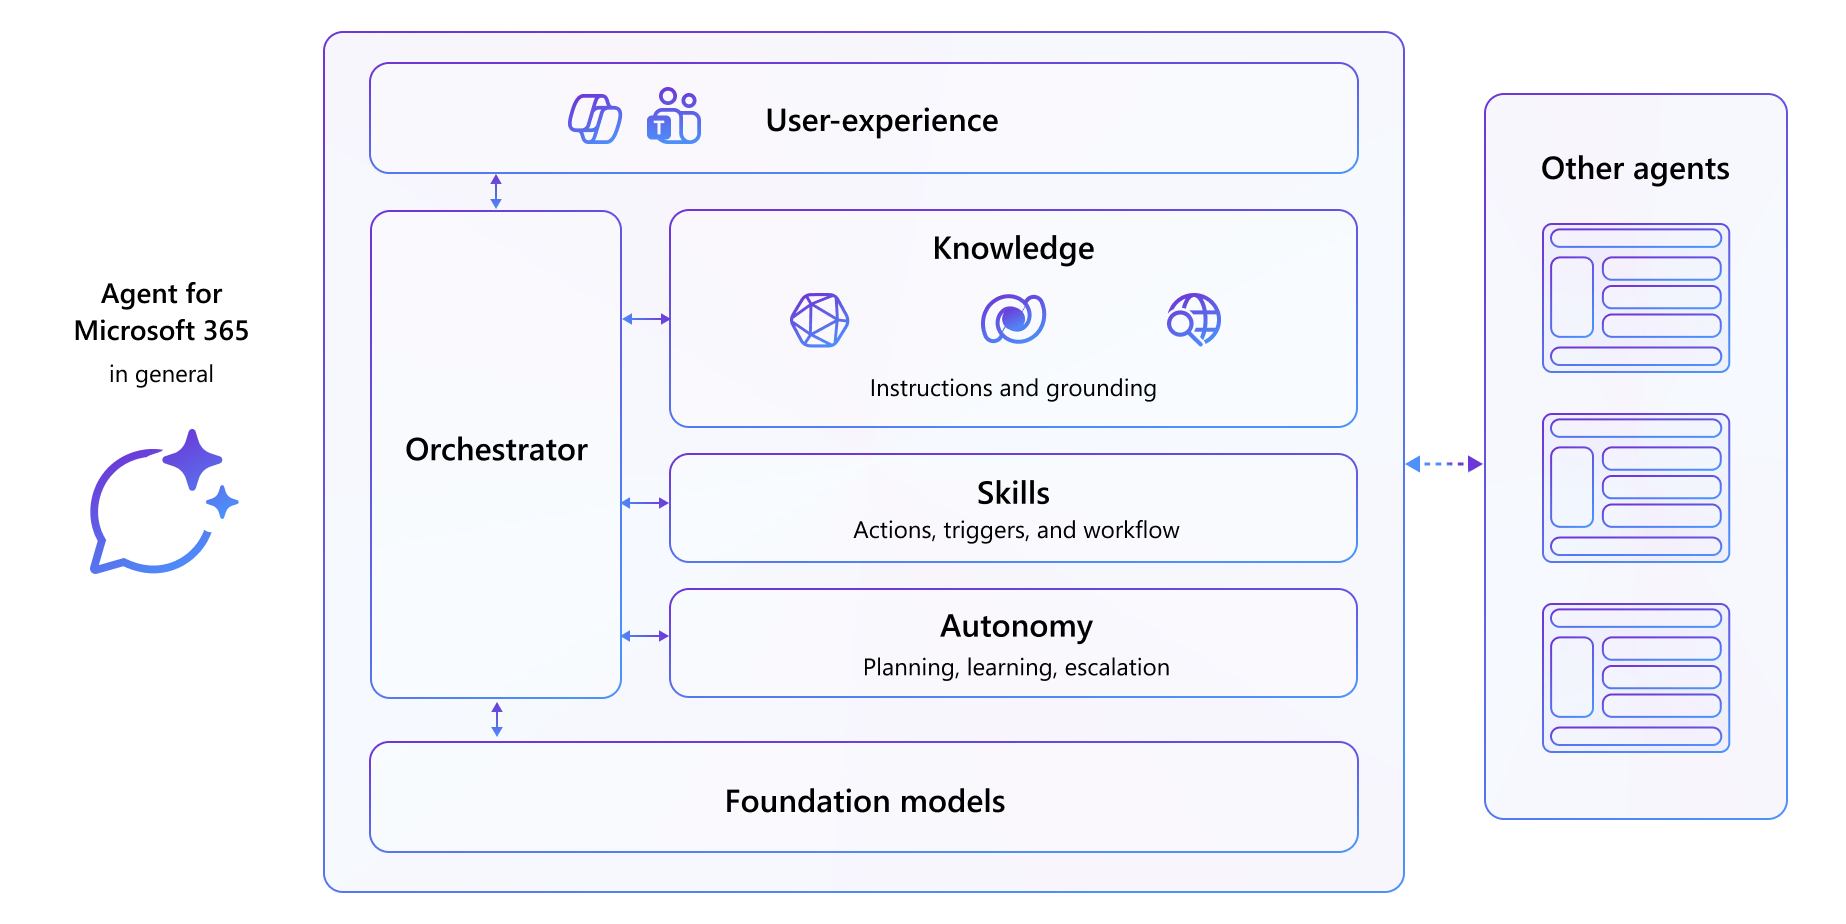
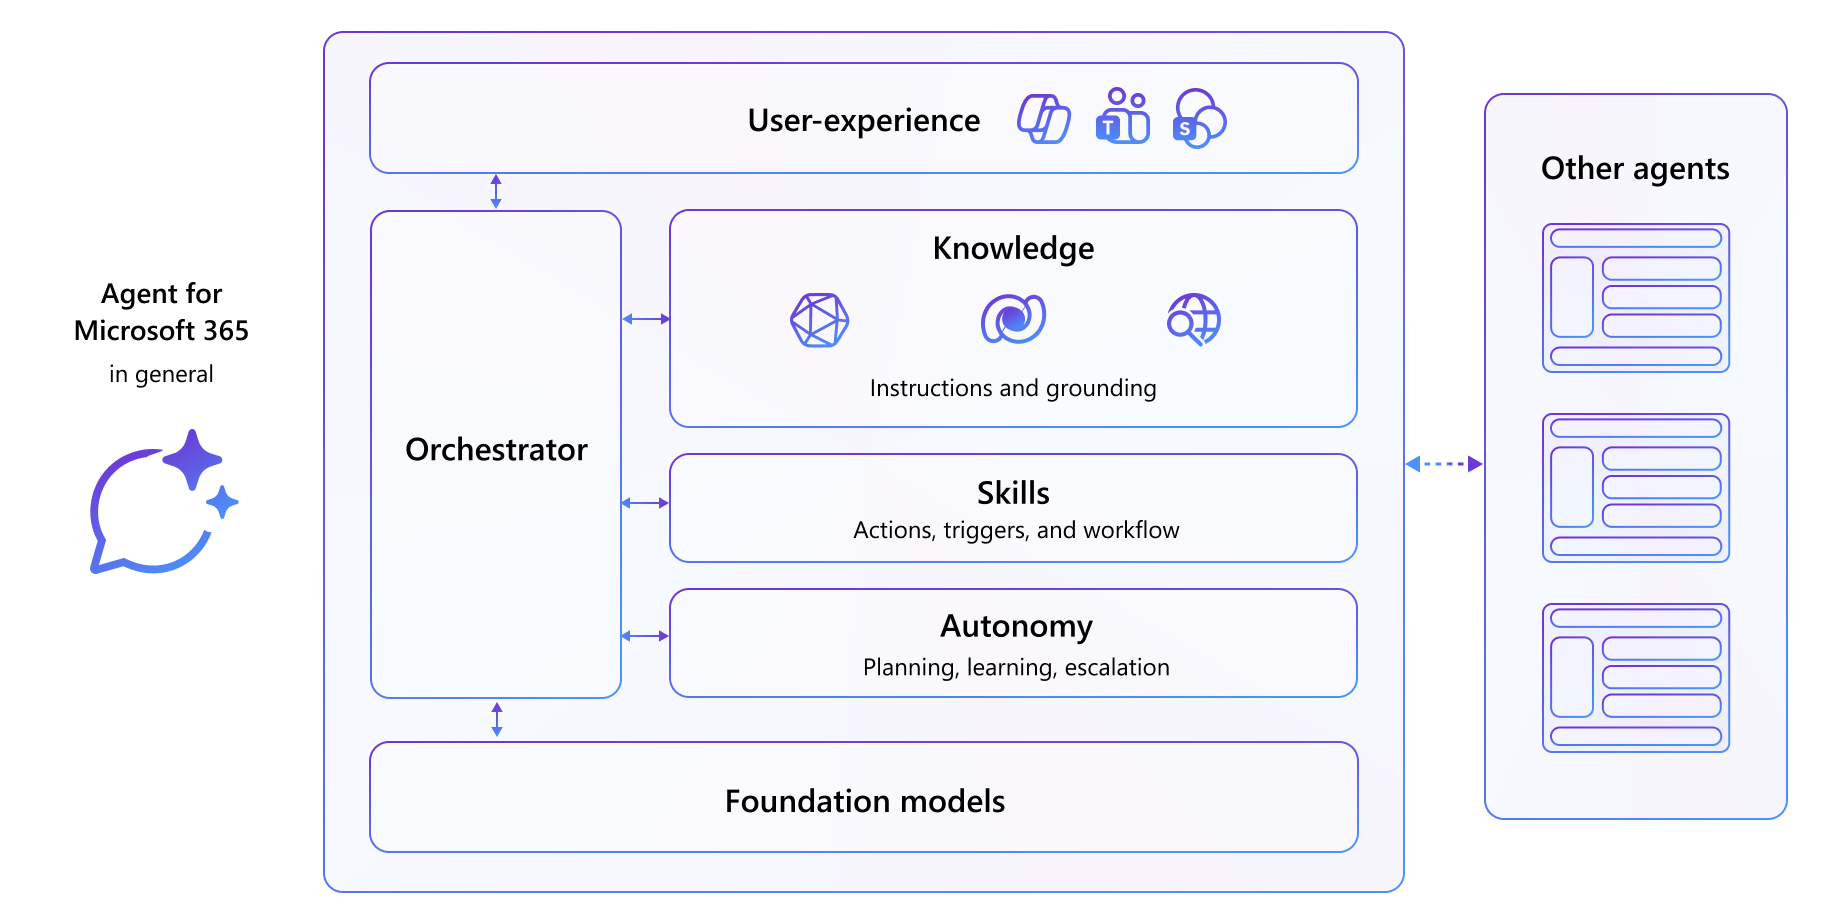
Refactoring of index

Changed region(s): [[0.3088, 0.0909, 0.6793, 0.1515]]

diff --git a/docs/index.md b/docs/index.md
@@ -2,29 +2,33 @@
 
 # Building Agents for Microsoft 365
 
-Agents for Microsoft 365 are conversational AI-powered assistants designed to help users automate tasks, answer questions, and streamline workflows across Microsoft 365 apps and services. Agents can be used in various scenarios, such as customer support, IT helpdesk, HR support, and more.
-
-![Agents for Microsoft 365 are conversational AI-powered assistants designed to help users automate tasks, answer questions, and streamline workflows across Microsoft 365 apps and services. Agents can be used in various scenarios, such as customer support, IT helpdesk, HR support, and more.](./assets/images/m365-agent-general.png)
-
-An agent for Microsoft 365 is typically made up of these components—foundational model,  an orchestrator, which is running that taps into that knowledge, skills, and autonomous processes that it has those capabilities to do, and it may or may not have a user interface. 
-
-You can either extend Microsoft 365 Copilot by using the same infrastructure, orchestrator, foundation model, and security controls as Microsoft 365 Copilot, which ensures a consistent and familiar user experience.
-
-Or you can pick your own foundation model, orchestrator, and responsible AI controls.
-
-## 🧪 Where should I start to build agents?
-
-There are three major pathways with several labs. If you want a no-code/low-code approach, choose the **Maker** path (["Agent Academy"](https://aka.ms/agentacademy), "MAB", "MSA", or "MCS" labs). If you want to extend Microsoft 365 Copilot, choose the **Extend** path ("E" lab). If you want to build a completely custom agent using Microsoft Foundry or any AI of your choice, choose the **Build** path ("BMA" and "BAF" labs).
-
-![If you want a no-code/low-code approach, choose the Maker labs ("Agent Academy", "MAB", "MSA", or "MCS"). If you want to extend Microsoft 365 Copilot, choose the Extend lab ("E"). If you want to build a completely custom agent using Microsoft Foundry or any AI of your choice, choose the Build labs ("BMA" and "BAF")](./assets/images/CopilotCamp-Flow-Chart.png)
-
----8<--- "main-links.md"
-
-
 <div class="video">
   <iframe src="//www.youtube.com/embed/uLYdP4ST7k0" frameborder="0" allowfullscreen></iframe>
   <div>Overview of Copilot Dev Camp</div>
 </div>
+
+Agents for Microsoft 365 are conversational AI-powered assistants that automate tasks, answer questions, and streamline workflows across Microsoft 365. Common use cases include customer support, IT helpdesk, and HR assistance.
+
+![Architecture diagram of an Agent for Microsoft 365 showing the user-experience layer with Microsoft 365 apps, an orchestrator managing knowledge (instructions and grounding), skills (actions, triggers, and workflow), and autonomy (planning, learning, escalation), all powered by foundation models, with the ability to connect to other agents.](./assets/images/m365-agent-general.png)
+
+An agent for Microsoft 365 typically consists of three core components: a foundation AI model that powers intelligent responses, an orchestrator that coordinates knowledge, skills, and autonomous processes, and optionally, a user interface like Microsoft 365 Copilot, Microsoft Teams, Microsoft SharePoint Online, etc. Agents can then be connected with other agents in a multi-agent architecture.
+
+![Diagram titled Empowering every developer to build agents, showing three paths: Build on the Microsoft 365 Copilot Stack leading to Declarative Agents, Build on your own AI stack leading to Custom Engine Agents, and Build for your own app leading to Copilot APIs.](./assets/images/m365-copilot-extensibility.png)
+
+When it comes to extending Microsoft 365 Copilot you have multiple options, depending on your actual needs:
+
+- **Declarative Agents**: you build your agents on the Microsoft 365 Copilot stack. You rely on the foundational model, orchestrator, and user experience of Copilot.
+- **Custom Engine Agents**: you build your agents on any AI stack of your choice. You choose the foundational model, the orchestrator, and the user experience.
+- **Copilot APIs**: you create custom applications that consume Microsoft 365 Copilot via Copilot APIs.
+
+## 🧪 Where should I start to build agents?
+
+There are plenty of options for you to start from. To create Declarative Agents, you can dig into technologies like Agent Builder, SharePoint Agents, Microsoft Copilot Studio, or pro-code Declarative Agents with the Microsoft 365 Agents Toolkit.
+To create Custom Engine Agents, you can explore technologies like Microsoft Copilot Studio, Microsoft Foundry, or pro-code Custom Engine Agents with the Microsoft 365 Agents Toolkit.
+
+In the following flowchart, you can find useful tips to learn where to start from.
+
+![If you want a no-code/low-code approach, choose the Maker labs ("Agent Academy", "MAB", "MSA", or "MCS"). If you want to extend Microsoft 365 Copilot, choose the Extend lab ("E"). If you want to build a completely custom agent using Microsoft Foundry or any AI of your choice, choose the Build labs ("BMA" and "BAF")](./assets/images/CopilotCamp-Flow-Chart.png)
 
 ## 🆕 What's New?
 
